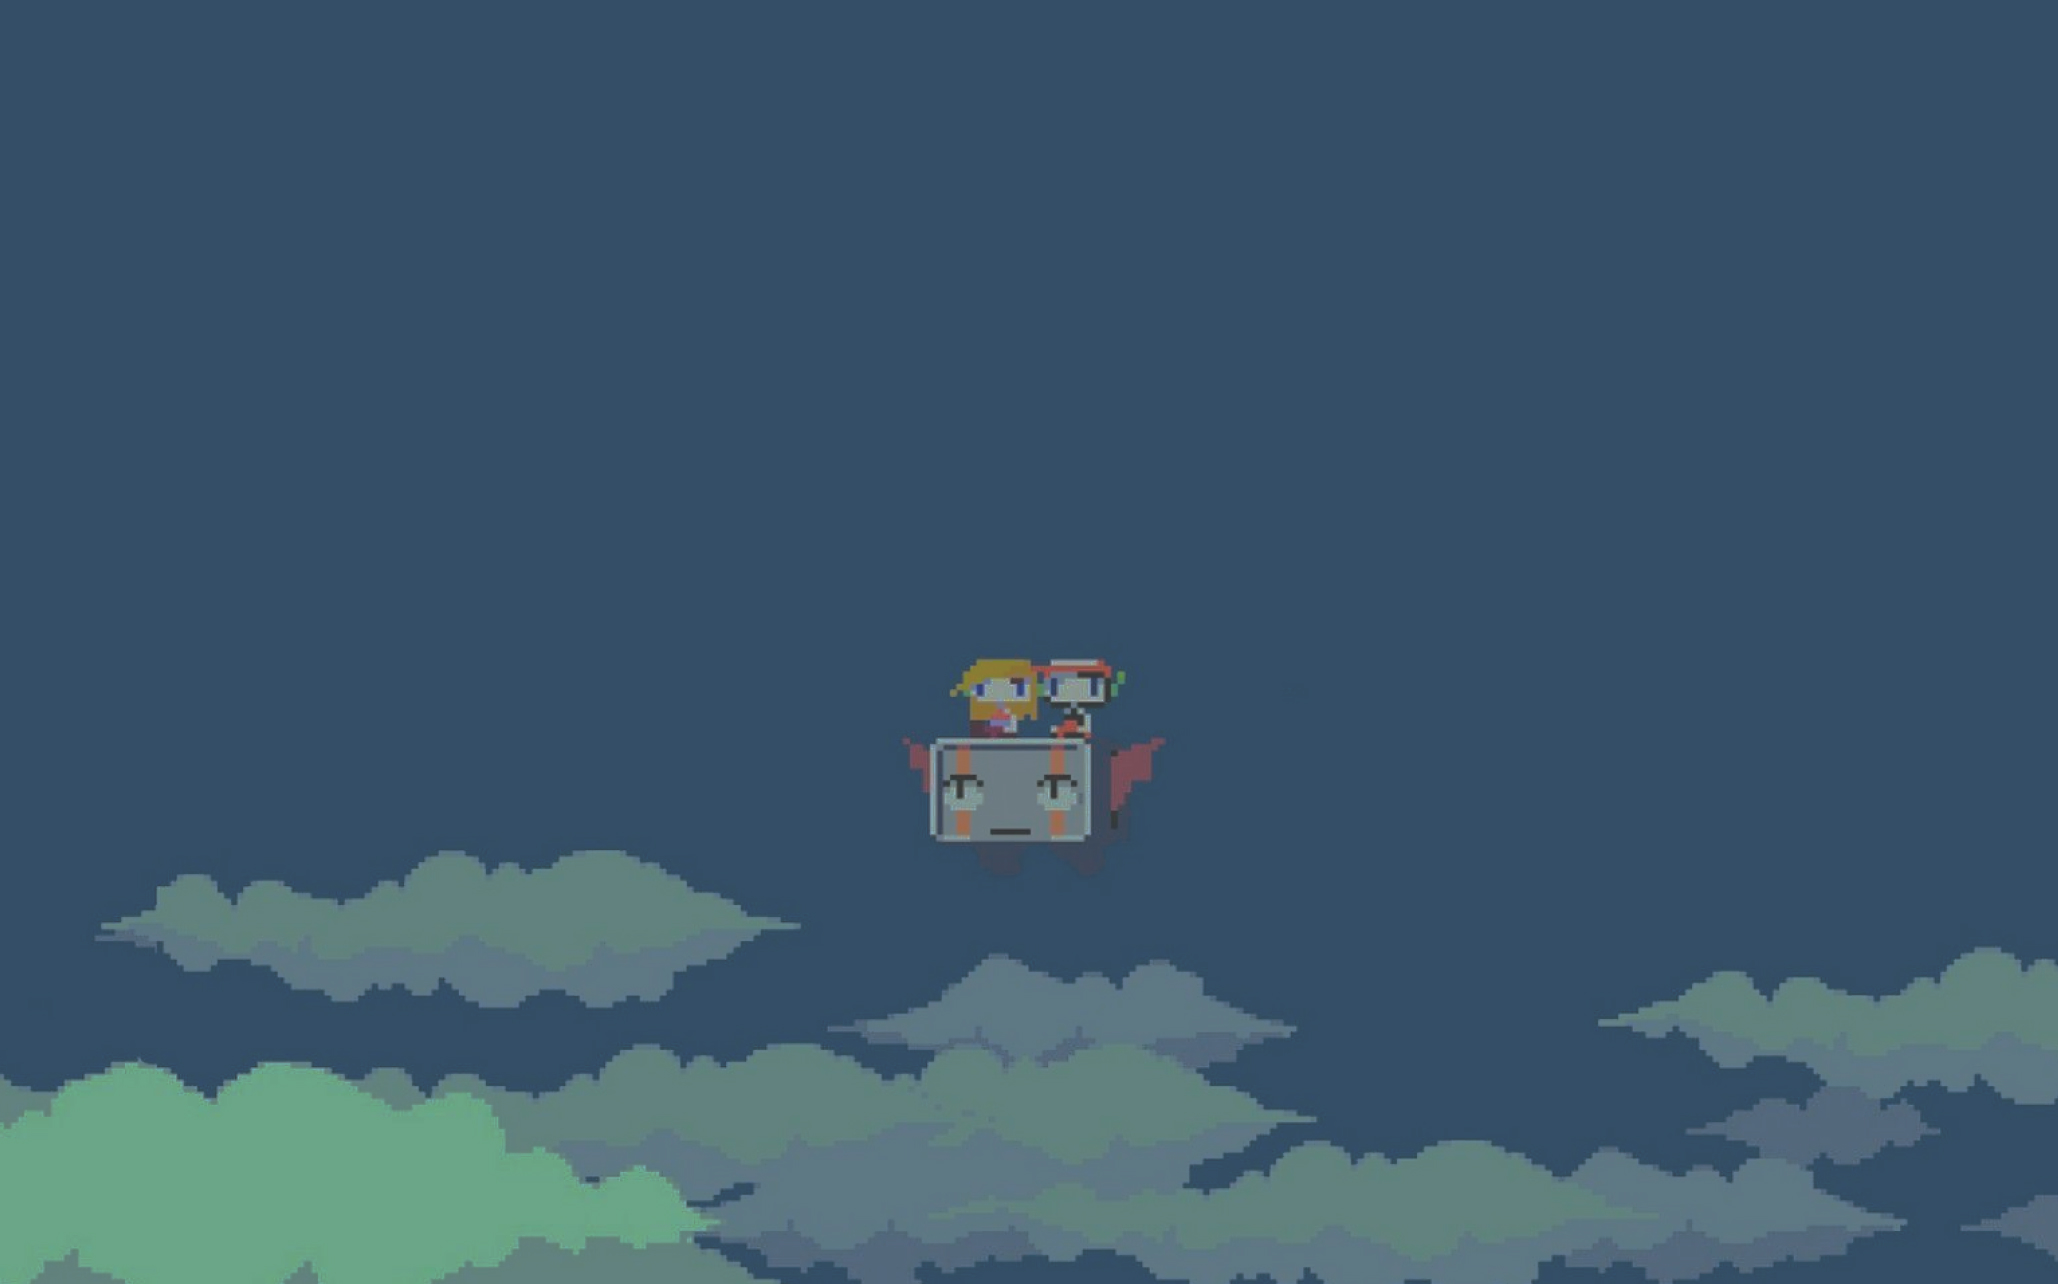
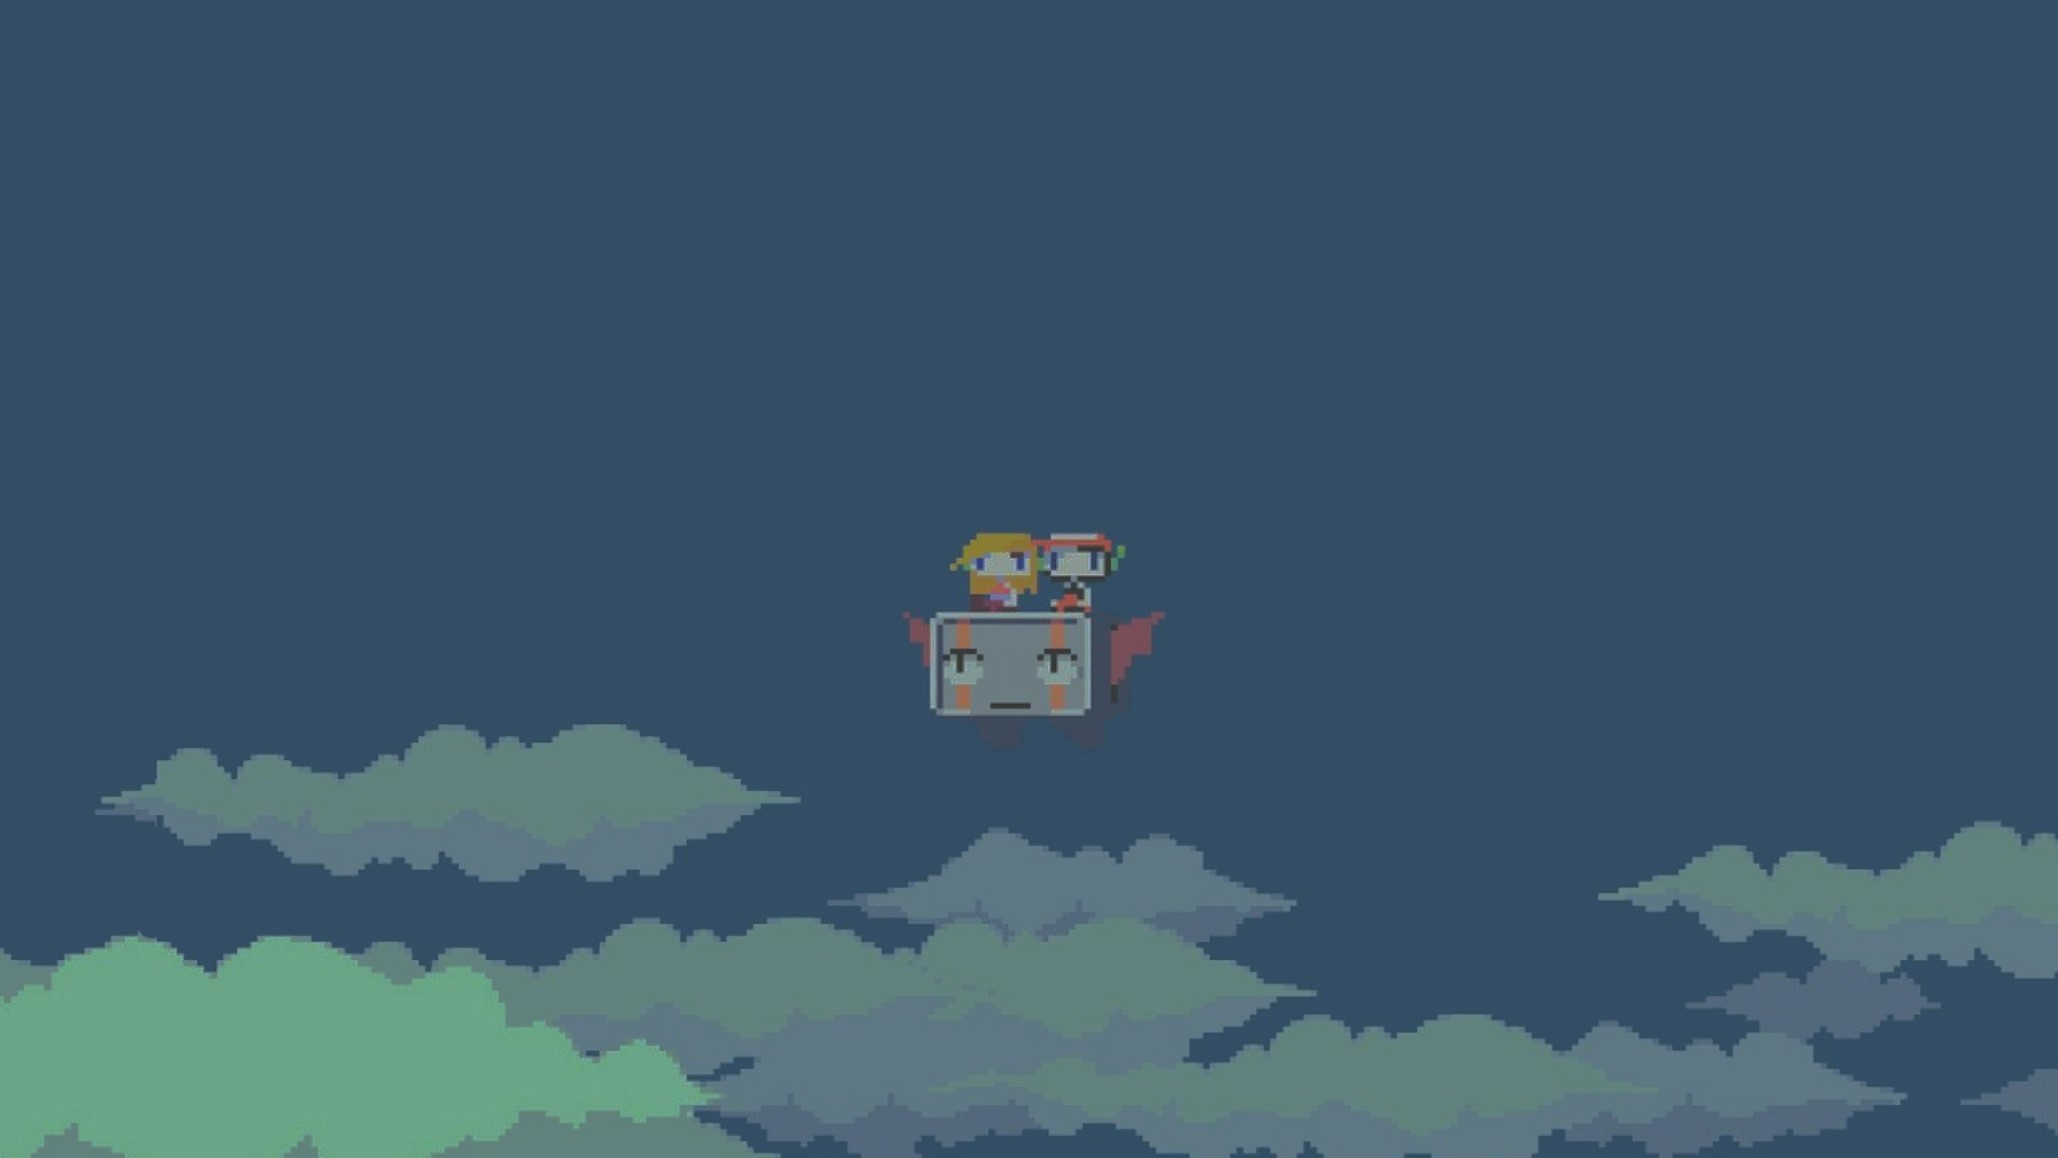
Added HomePage and few image assets

diff --git a/src/components/Navbar.js b/src/components/Navbar.js
@@ -1,10 +1,10 @@
 import { useState } from "react"
 import React from 'react'
 import { Link } from "react-router-dom"
+import logo from "../TS_images/logo.png";
 // import { click } from "@testing-library/user-event/dist/click"
 import { Button } from "./Button";
 import './Navbar.css';
-import ComingSoon from "./ComingSoon";
 function Navbar() {
   const[click,setclick]=useState(false);
   const [button,setButton]=useState(true);
@@ -24,7 +24,7 @@ function Navbar() {
         <nav className="navbar">
             <div className="navbar-container">
                 <Link to="/" className="navbar-logo">
-                  TechSpark
+                  <img src={logo}></img>
                 </Link>
                 <div className="menu-icon" onClick={handleClick}>
                   <i className={click? 'fas fa-times': 'fas fa-bars'}/>
@@ -55,7 +55,7 @@ function Navbar() {
             </div>
            
         </nav>
-        <ComingSoon/>
+
     </>
   )
 }

diff --git a/src/components/Navbar.css b/src/components/Navbar.css
@@ -22,22 +22,17 @@
     display: flex;
     justify-content: center;
     align-items: center;
-    height: 80px;
+    height: 150px;
     width: 100%;
     /* max-width: 1500px; */
   }
   
-  .navbar-logo {
-    color: #fff;
-    justify-self: start;
-
-    cursor: pointer;
-    text-decoration: none;
-    font-size: 2rem;
-    display: flex;
-    align-items: center;
+  .navbar-logo img {
+    width: 100px;
+    height: 110px;
+    justify-content: right;
   }
-  
+
   .fa-typo3 {
     margin-left: 0.5rem;
     font-size: 1.8rem;
@@ -126,7 +121,7 @@
       position: absolute;
       top: 0;
       left: 0;
-      transform: translate(25%, 50%);
+      transform: translate(25%, 15%);
     }
   
     .menu-icon {
@@ -134,7 +129,7 @@
       position: absolute;
       top: 0;
       right: 0;
-      transform: translate(-100%, 60%);
+      transform: translate(-100%, 150%);
       font-size: 1.8rem;
       cursor: pointer;
     }

diff --git a/src/App.js b/src/App.js
@@ -1,13 +1,15 @@
 import React from "react";
 import './App.css';
 import Navbar from "./components/Navbar";
-import ComingSoon from "./components/ComingSoon";
+
 import { BrowserRouter as Router,Routes,Route, RouterProvider } from "react-router-dom";
+import HomePage from "./components/HomePage";
 function App() {
   return (
     <Router>
-      {/* <ComingSoon/> */}
+
       <Navbar/>
+      <HomePage />
       <Routes>
         <Route path="/" exact />
       </Routes>

diff --git a/src/components/HomePage.js b/src/components/HomePage.js
@@ -1,0 +1,18 @@
+import React from 'react'
+import home from "../TS_images/BG.jpg";
+import "./HomePage.css";
+
+function HomePage() {
+  return (
+    <>
+    <div>
+        <div className='home-main'>
+            <img src={home}></img>
+
+        </div>
+    </div>
+    </>
+  )
+}
+
+export default HomePage

diff --git a/src/components/HomePage.css b/src/components/HomePage.css
@@ -1,0 +1,15 @@
+* { 
+    box-sizing: border-box;
+    margin: 0;
+    padding: 0;
+  }
+
+.home-main img{
+    position: absolute;
+    top: 0;
+    left: 0;
+    width: 100%;
+    height: 100vh;
+    object-fit: cover;
+    object-position: 50%;
+}

diff --git a/src/components/ComingSoon.js b/src/components/ComingSoon.js
@@ -7,10 +7,7 @@ function ComingSoon() {
   return (
     <>
     <div className='back-image'>
-       <img src={backimg} alt=""/>
-       {/* <div className='year-image'>
-            <img src={year} />
-       </div> */}
+       
     </div>
    
 
